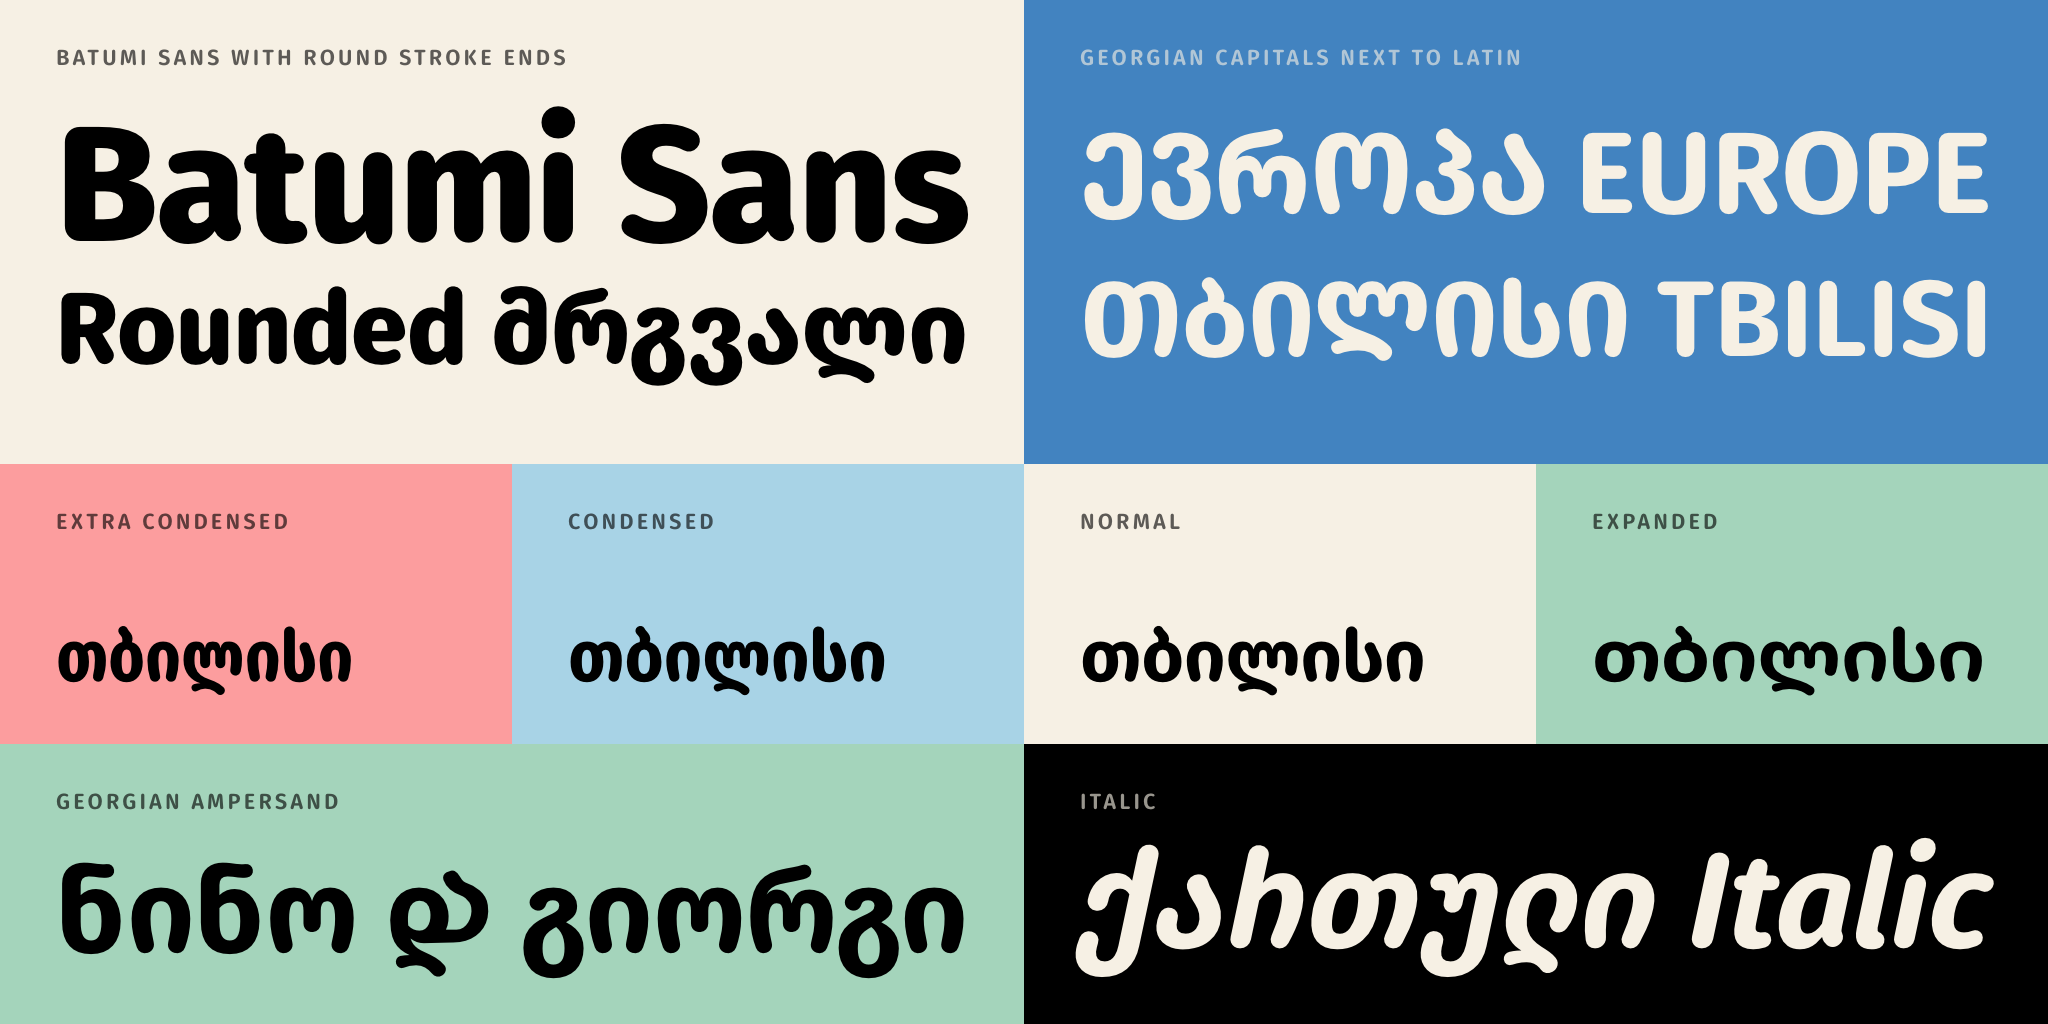
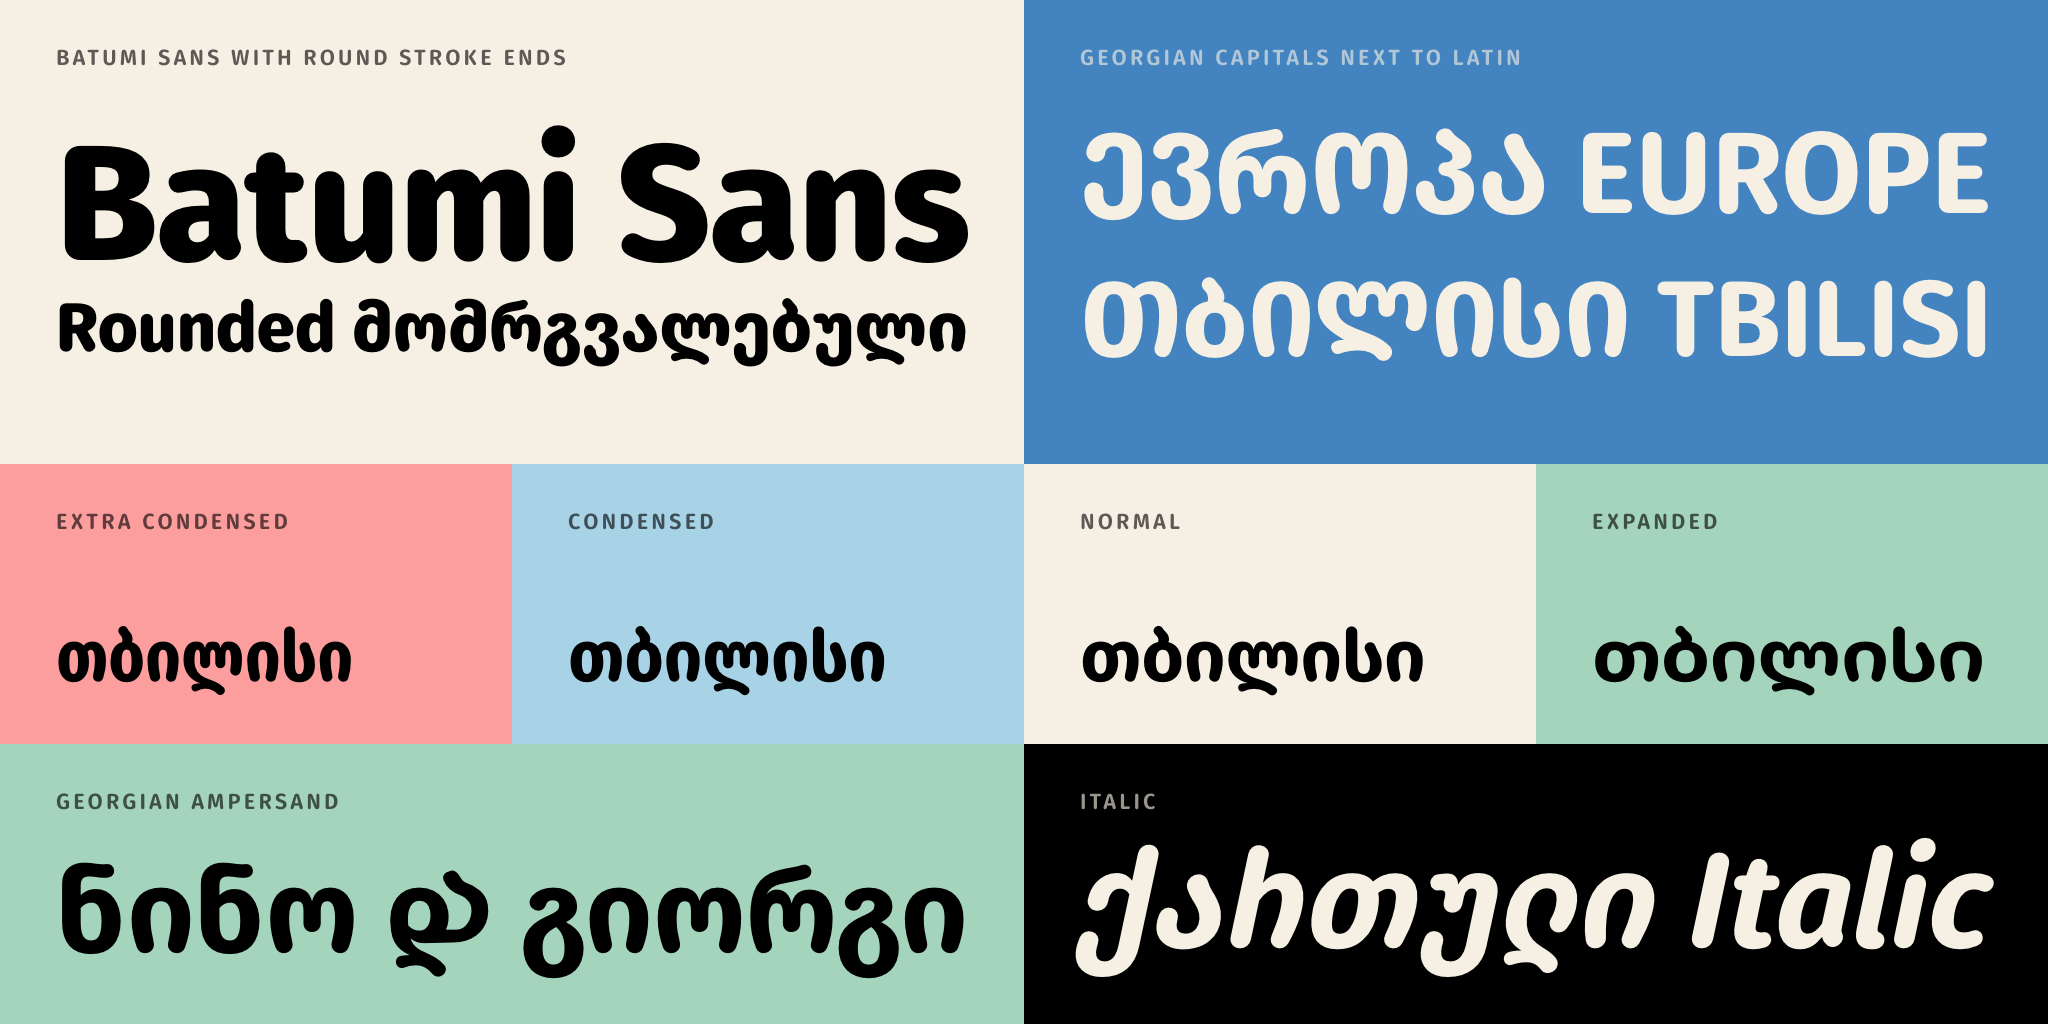
Georgian name of the rounded family: ბათუმი სანსი მომრგვალებული

Changed region(s): [[0.0312, 0.0938, 0.4688, 0.375]]

diff --git a/google-fonts/batumisansrounded/article/ARTICLE.en_us.html b/google-fonts/batumisansrounded/article/ARTICLE.en_us.html
@@ -49,7 +49,7 @@
 <hr>
 <h3>ქართულად</h3>
 <p>
-  <span class="autonym"><strong>ბათუმი სანსი მრგვალი</strong> (Batumi Sans Rounded) ბათუმი სანსის
+  <span class="autonym"><strong>ბათუმი სანსი მომრგვალებული</strong> (Batumi Sans Rounded) ბათუმი სანსის
   მომრგვალებული ვერსიაა: იგივე სიგანეები, წონები და კურსივი, ოღონდ
   მომრგვალებული ბოლოებით. ის კობა ჟღენტმა „ბორბალოსთვის“ შექმნა. ოჯახი
   FiraGO-სა და Fira Sans-ს ეფუძნება და ღია ლიცენზიით (SIL OFL 1.1)

diff --git a/docs/images/src/figures.html b/docs/images/src/figures.html
@@ -243,7 +243,7 @@
 <section class="board gf gf-hero round" id="gf-hero-rounded">
   <div class="tile cream name-tile">
     <div class="label">Batumi Sans with round stroke ends</div>
-    <div><div class="gname fit">Batumi Sans</div><div class="gname-ka fit">Rounded <span lang="ka">მრგვალი</span></div></div>
+    <div><div class="gname fit">Batumi Sans</div><div class="gname-ka fit">Rounded <span lang="ka">მომრგვალებული</span></div></div>
     <div></div>
   </div>
   <div class="tile blue half" lang="ka">
